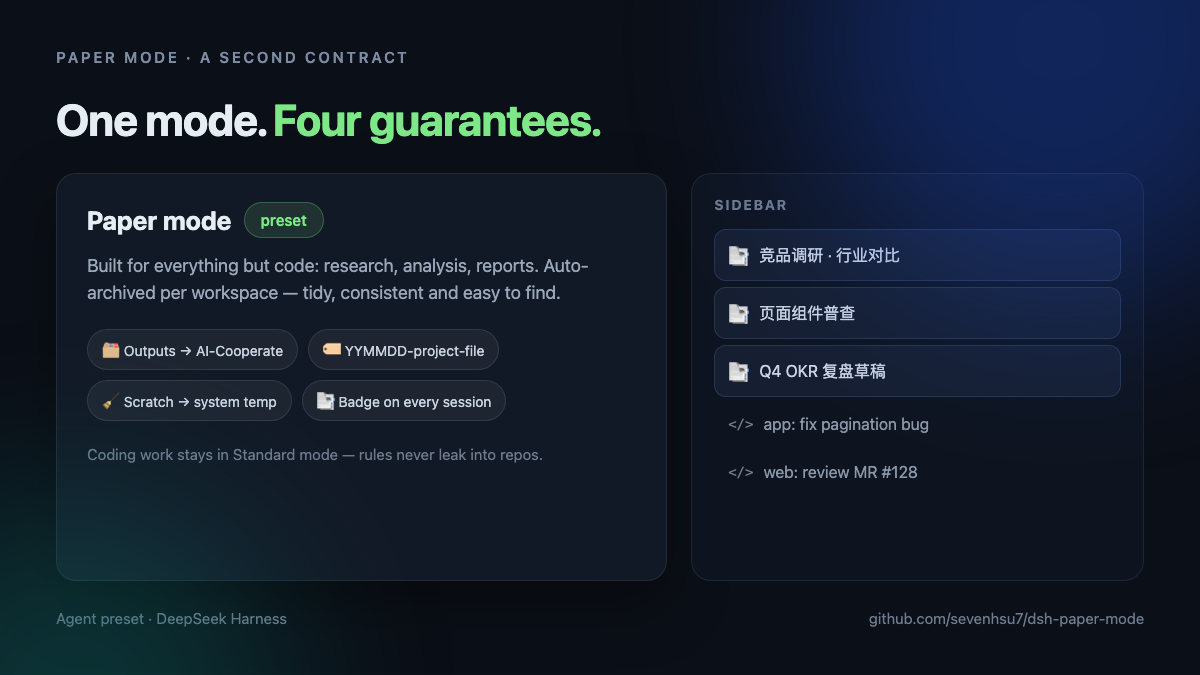
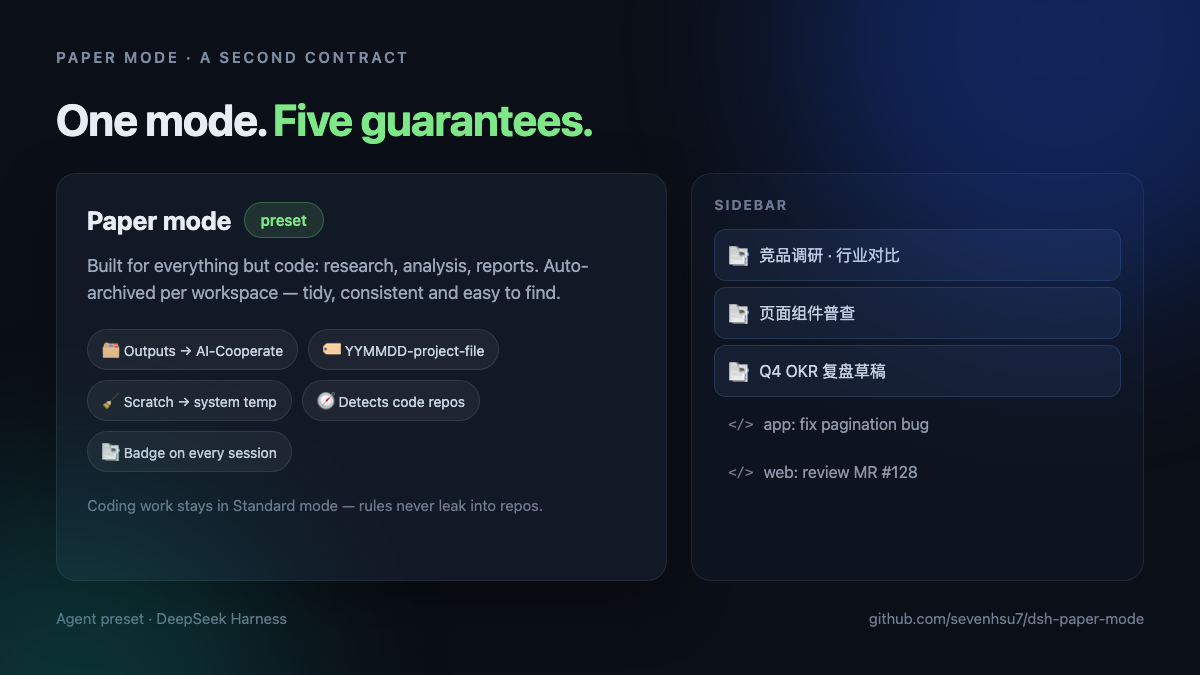
Highlight workspace-aware detection in core guarantees (v1.5.1)

diff --git a/assets/src/02-mode-card.html b/assets/src/02-mode-card.html
@@ -36,7 +36,7 @@ h1 .accent { color:#7EE787; }
 </style></head><body><div class="wrap">
   <div class="glow g1"></div><div class="glow g2"></div>
   <div class="eyebrow">Paper mode · a second contract</div>
-  <h1>One mode. <span class="accent">Four guarantees.</span></h1>
+  <h1>One mode. <span class="accent">Five guarantees.</span></h1>
   <div class="main">
     <div class="card card2">
       <div class="title">Paper mode <span class="badge">preset</span></div>
@@ -45,6 +45,7 @@ h1 .accent { color:#7EE787; }
         <div class="chip">🗂 Outputs → AI-Cooperate</div>
         <div class="chip">🏷 YYMMDD-project-file</div>
         <div class="chip">🧹 Scratch → system temp</div>
+        <div class="chip">🧭 Detects code repos</div>
         <div class="chip">📑 Badge on every session</div>
       </div>
       <div class="desc" style="margin-top:22px;font-size:15px;color:#6F7C8F">Coding work stays in Standard mode — rules never leak into repos.</div>

diff --git a/README.md b/README.md
@@ -6,11 +6,12 @@
 
 Coding agents are great at producing code and bad at delivering everything else: research notes, CSVs, charts, screenshots and one-off scripts end up dumped in the workspace root, named `report.md` or `最终版.md`, while coding and analysis sessions blur together in the sidebar.
 
-Paper mode is an **agent preset** for DSH that gives non-coding work its own contract:
+Paper mode is an **agent preset** for DSH that gives non-coding work its own contract — and it knows what kind of workspace it is running in:
 
 | Guarantee | What it means |
 |---|---|
-| 🗂 **One archive** | Every output is written to the workspace's `AI-Cooperate/` folder (also recognized: `AI-CoWork/`, `AI-Corporate/`). In a git repository the folder is added to `.git/info/exclude` on first save, so `git status` stays clean without touching the tracked `.gitignore`. |
+| 🧭 **Workspace-aware** | Automatically detects whether the workspace is a **git repository** or a **plain folder**. Code repositories get the archive added to their local `.git/info/exclude` and keep scratch out; plain folders just get the archive, with no git handling at all. |
+| 🗂 **One archive** | Every output is written to the workspace's `AI-Cooperate/` folder (also recognized: `AI-CoWork/`, `AI-Corporate/`). |
 | 🏷 **Enforced naming** | Files are named `YYMMDD-<project-code>-<name>.<ext>`, with the real system date, a project code that stays constant for the session, and `-2`/`-3` de-duplication. Never overwrites. |
 | 🧹 **Scratch, not clutter** | Intermediate files (temporary scripts, intermediate data, process screenshots) go to an auto-cleaned system-temp scratch directory via the `scratch` tool — never the workspace — and are deleted after 7 days. |
 | 📑 **Identifiable sessions** | A small host plugin prefixes Paper session titles with 📑, so the sidebar shows which sessions are analysis and which are code. |
@@ -119,6 +120,14 @@ $TMPDIR/paper-261018-AoC-1f2e/        # date + project code + short session id
 - Copy anything worth keeping into the archive with `cowork_save` before the directory expires.
 
 
+### Workspace detection
+
+Before saving, `cowork_save` inspects the workspace:
+
+- It walks up from the workspace root to the nearest `.git` — a directory for normal clones, or a file for linked worktrees — so it can tell a **code repository** from a **plain folder**.
+- **Code repository** (including worktrees and nested workspaces): the archive is added to the repository's local `.git/info/exclude`, so `git status` stays clean; scratch always lives in system temp, never in the repo.
+- **Plain folder**: no git handling at all — no `.gitignore`, no exclude file, just the archive. A directory that merely *contains* repositories (e.g. a `work/` folder) stays a plain folder.
+
 ### Git repositories
 
 If the workspace lives in a git repository, the first `cowork_save` also adds the archive folder to the repository's **local** `.git/info/exclude`:
@@ -164,6 +173,7 @@ MIT — see [LICENSE](LICENSE).
 - 产物统一写入工作区的 `AI-Cooperate/`（文件夹名保持不变；已有的 `AI-CoWork/`、`AI-Corporate/` 也会识别）；在 git 仓库里第一次保存会自动写进 `.git/info/exclude`（只影响本机，不动被跟踪的 `.gitignore`），`git status` 保持干净；
 - 文件名强制为 `YYMMDD-项目代码-文件名`，日期取系统时间，项目代码整场会话一致，重名自动 `-2`/`-3`，绝不覆盖；
 - 过程文件（临时脚本、中间数据、截图）不进工作区：通过 `scratch` 工具放到系统临时目录，7 天后自动清理；
+- 自动识别工作区：是 git 仓库就自动写 `.git/info/exclude`、过程文件不进仓库；是普通文件夹就只创建归档目录，不做任何 git 操作；
 - 会话标题自动带 📑，侧边栏一眼区分分析会话和编码会话；
 - 最关键：**规则只活在模式里**。没选这个模式，规则就不存在——所以编码会话完全不受影响。
 

diff --git a/redskill.md b/redskill.md
@@ -50,7 +50,7 @@ When a user points you at this file, do this:
 - Preset `cowork` (display name **Paper mode**; internal id kept for compatibility), based on the standard tool set.
 - `cowork_save` tool: enforces the archive folder and naming (never overwrites; asks the user when multiple archive folders exist).
 - `scratch` tool + 7-day cleanup: intermediate files stay in an auto-cleaned system-temp directory, never in the workspace.
-- Git-aware archive: on first save in a git repository, the archive folder is added to `.git/info/exclude` (local-only; tracked `.gitignore` untouched), so `git status` stays clean.
+- Workspace-aware: automatically tells code repositories from plain folders. In a git repository the archive is added to `.git/info/exclude` (local-only; tracked `.gitignore` untouched) and scratch stays out; plain folders get no git handling.
 - Host plugin: prefixes 📑 on Paper mode session titles.
 
 ## Uninstall

diff --git a/skills/install-paper-mode/SKILL.md b/skills/install-paper-mode/SKILL.md
@@ -37,7 +37,7 @@ Repo: <https://github.com/sevenhsu7/dsh-paper-mode>
 
 6. **Report** installed version, verification output, and any step that needed the user.
 
-- Git-aware archive: `cowork_save` adds the archive folder to `.git/info/exclude` when the workspace is a git repository (local-only; tracked `.gitignore` untouched).
+- Workspace-aware: automatically detects whether the workspace is a git repository. In repos the archive is added to `.git/info/exclude` (local-only; tracked `.gitignore` untouched); plain folders get no git handling.
 
 ## Troubleshooting
 
